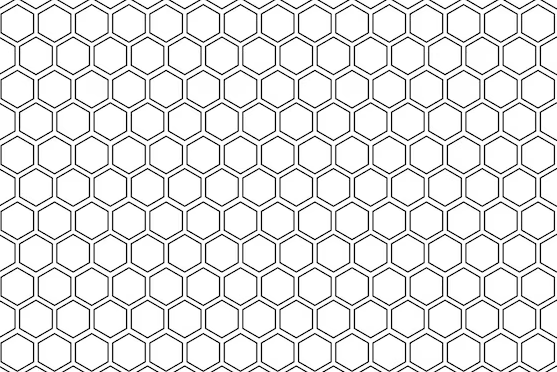
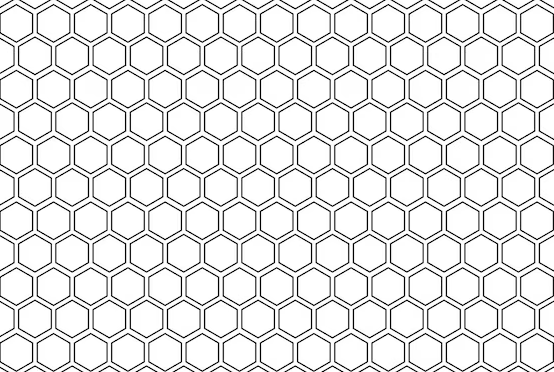
everything is done but styles

Changed region(s): [[0.3682, 0.0, 1.0, 1.0], [0.0, 0.0, 0.2762, 1.0]]

diff --git a/style2.css b/style2.css
@@ -11,11 +11,11 @@ body {
 
 #mainContainer {
   
-    width: 650px;
-    height: 650px;
+    width: 750px;
+    height: 750px;
     position: absolute;
     top: 0px;
-    /* background-image: url(hexagon.png); */
+    background-image: url(hexagon.png);
     background-size: contain;
     background-repeat: no-repeat;
     background-color: green;
@@ -70,7 +70,44 @@ button {
   height: 20%;
   position: relative;
 }
+#revweList {
+  position: absolute;
+  background-color: rgb(85, 164, 85);
+  z-index: 5;
+  width: 100vw;
+  height: 100vh;
+  display: flex;
+  flex-direction: column;
+  align-items: center;
+  overflow: hidden;
+}
 
+#reviewTitle {
+  font-size: 4vw;
+  
+}
+#reviewTitle span {
+  font-size: 6vw;
+  color:  red;
+  
+}
+#procent{
+  margin: 0;
+  font-size: 6vw;
+  color: rgb(70, 51, 153)
+}
+
+.mistakes{
+color:  rgb(34, 32, 32);
+font-size: 2vw;
+margin: 0.3vh;
+}
+.mistakes span {
+  color:  rgb(219, 202, 202);
+  font-size: 1.6vw;
+  margin: 0.3vh;
+  }
+  
 
 
 
@@ -79,12 +116,14 @@ button {
 
 #VideoAnswer{
   position: absolute;
+  background-color: black;
   top: 0;
   width: 100vw;
   height: 100vh;
   z-index: -1;
 }
 #videoQuestion{
+  background-color: black;
   width: 100vw;
   height: 100vh;
   position: absolute;
@@ -172,12 +211,12 @@ button {
 }
 #divplace1{
   width: 5.7%; /* The width of the hexagon */
-    height: 32%; /* Adjust the height for a proper hexagon */
+    height: 32.7%; /* Adjust the height for a proper hexagon */
     background-color: #3498db; /* Color of the hexagon */
     clip-path: polygon(50% 0%, 100% 25%, 100% 75%, 50% 100%, 0% 75%, 0% 25%);
     position: absolute;
-    top: 33%;
-    left: 43%;
+    top: 34%;
+    left: 43.6%;
     display: flex;
     align-items: center;
     justify-content: center;
@@ -186,12 +225,12 @@ button {
 }
 #divplace2{
   width: 5.7%; /* The width of the hexagon */
-    height: 32%; /* Adjust the height for a proper hexagon */
+    height: 32.7%; /* Adjust the height for a proper hexagon */
     background-color: #3498db; /* Color of the hexagon */
     clip-path: polygon(50% 0%, 100% 25%, 100% 75%, 50% 100%, 0% 75%, 0% 25%);
     position: absolute;
-    top: 33%;
-    left: 49.6%;
+    top: 34%;
+    left: 50.3%;
     display: flex;
     align-items: center;
     justify-content: center;
@@ -199,12 +238,12 @@ button {
 }
 #divplace3{
   width: 5.7%; /* The width of the hexagon */
-    height: 32%; /* Adjust the height for a proper hexagon */
+    height: 32.7%; /* Adjust the height for a proper hexagon */
     background-color: #3498db; /* Color of the hexagon */
     clip-path: polygon(50% 0%, 100% 25%, 100% 75%, 50% 100%, 0% 75%, 0% 25%);
     position: absolute;
-    top: 62.4%;
-    left: 39.6%;
+    top: 63.9%;
+    left: 40.3%;
     display: flex;
     align-items: center;
     justify-content: center;
@@ -212,12 +251,12 @@ button {
 }
 #divplace4{
   width: 5.7%; /* The width of the hexagon */
-    height: 32%; /* Adjust the height for a proper hexagon */
+    height: 32.7%; /* Adjust the height for a proper hexagon */
     background-color: #3498db; /* Color of the hexagon */
     clip-path: polygon(50% 0%, 100% 25%, 100% 75%, 50% 100%, 0% 75%, 0% 25%);
     position: absolute;
-    top: 62.4%;
-    left: 46.25%;
+    top: 63.9%;
+    left: 47%;
     display: flex;
     align-items: center;
     justify-content: center;
@@ -225,12 +264,12 @@ button {
 }
 #divplace5{
   width: 5.7%; /* The width of the hexagon */
-    height: 32%; /* Adjust the height for a proper hexagon */
+    height: 32.7%; /* Adjust the height for a proper hexagon */
     background-color: #3498db; /* Color of the hexagon */
     clip-path: polygon(50% 0%, 100% 25%, 100% 75%, 50% 100%, 0% 75%, 0% 25%);
     position: absolute;
-    top: 62.4%;
-    left: 53%;
+    top: 63.9%;
+    left: 53.7%;
     display: flex;
     align-items: center;
     justify-content: center;
@@ -238,11 +277,11 @@ button {
 }
 #divplace6{
   width: 5.7%; /* The width of the hexagon */
-    height: 32%; /* Adjust the height for a proper hexagon */
+    height: 32.7%; /* Adjust the height for a proper hexagon */
     background-color: #3498db; /* Color of the hexagon */
     clip-path: polygon(50% 0%, 100% 25%, 100% 75%, 50% 100%, 0% 75%, 0% 25%);
     position: absolute;
-    top: -10%;
+    top: 63.9%;
     left: 36.3%;
     display: flex;
     align-items: center;

diff --git a/script2.js b/script2.js
@@ -153,13 +153,14 @@ const videoFolder = './answers/';
 
 
 
+
 let numbers = [];
 let countNumber = 0;
 let stopNumber = 4;
 let videoNumb = 65
 let right = 0;
 let turn = 1;
-let videoSequence = [];
+let videoSequence = [  3, 43 , 33];
 
 
 let finish = 0;
@@ -195,11 +196,19 @@ function playVideosSequentially(videoList) {
     };
   
     playNext();
-  }, 2000);
+  }, 10000);
   revew.style.zIndex = "4"
+  let procents =  100 -((65 / 100) * videoSequence.length )  ;
+  let trezz = `<div id="revweList"> <p id="reviewTitle">REVEW  <span>${videoSequence.length}</span></p> <div> <p id = "procent"> ${ Math.round(procents)} %  <p/>`
+  videoSequence.forEach(element => {
+    trezz = trezz + `<p class="mistakes"><span>${element}.</span> ${answerdata[element]}</p> ` 
+    
+  });
+  trezz = trezz + "<div/></div>"
+  revew.innerHTML = trezz
   setTimeout(() => {
     revew.style.zIndex = "-1"
-  }, 2000);
+  }, 10000);
 
   
 
@@ -224,9 +233,10 @@ startButton.addEventListener('click', () => {
     videoQuestion.style.zIndex = '-4';
     information.style.zIndex = '1';
    controls.style.zIndex = "3"
-    
+   
     })
 });
+
 
 // Create divs in each container
 function createDivs(container, array , a) {
@@ -330,6 +340,9 @@ input.addEventListener('keypress', event => {
                       theEnd.style.zIndex = "4"
                     }
                   }
+
+
+                 
                 
                  });
       

diff --git a/index2.html b/index2.html
@@ -30,6 +30,7 @@
   
     
 </div>
+
 <div id="RightContainer">
   <div id="rightAnswer">RIGHT ANSWER</div>
 </div>
@@ -37,7 +38,7 @@
   <div id="wrongAnswer">WRONG ANSWER</div>
 </div>
 
-<div id="revew">REVEW</div>
+<div id="revew">REVEW <br> </div>
 
 <video id="videoPlayer" controls ></video>
 
